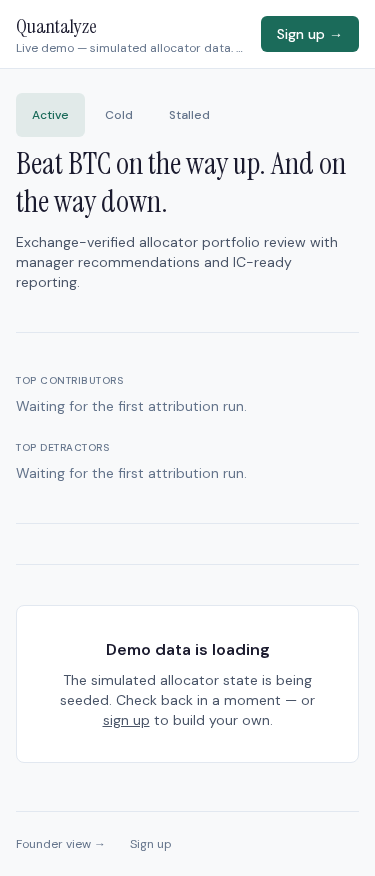
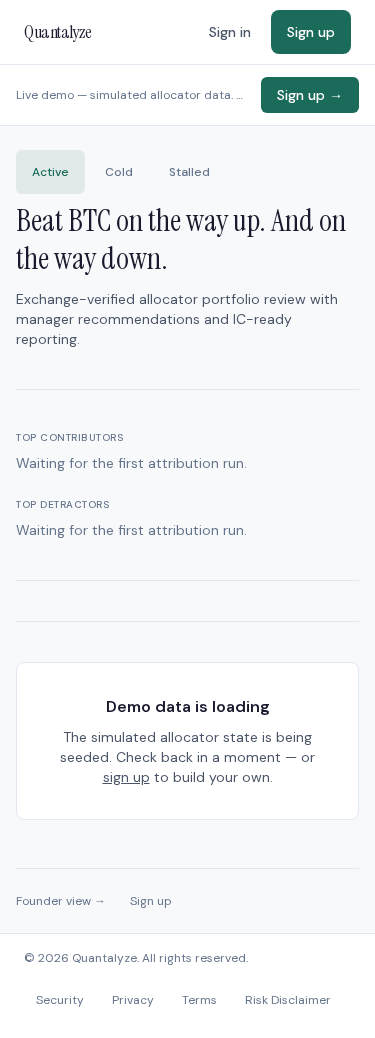
fix(e2e): regenerate /demo screenshot baselines after the (marketing) shell move (v0.35.0.9) (#550)
The advisory demo-screenshot e2e went red on main after v0.35.0.8: /demo moved
under the (marketing) group and gained the shared masthead + LegalFooter, so the
page is taller (mobile 876→1038, desktop 800→912) and the May-21 chromium-linux
baselines no longer matched. Intended visual change, stale baselines — not a bug.

Regenerated demo-375 + demo-1280 in mcr.microsoft.com/playwright:v1.61.1-jammy
(placeholder-Supabase env, matching CI's capture env); demo-768 was within the
0.05 tolerance and is unchanged. Verified the committed baselines pass a clean
no---update comparison in the same linux image. Closes #549.

Claude-Session: https://claude.ai/code/session_01GT7U2ivArKxJiBdcnMZDgj

diff --git a/CHANGELOG.md b/CHANGELOG.md
@@ -1,5 +1,10 @@
 # Changelog
 
+## [0.35.0.9] - 2026-06-29
+### Fixed — /demo screenshot baselines after the Phase 51 shell move (closes #549)
+
+The advisory `e2e` `demo-screenshot.spec.ts` was red on main after v0.35.0.8: moving `/demo` under the `(marketing)` group gave it the shared masthead + `LegalFooter`, so the page is taller (mobile 876→1038px, desktop 800→912px) and the May-21 chromium-linux baselines no longer matched. Not a regression — an intended visual change with stale baselines. Regenerated the `demo-375` + `demo-1280` baselines in the `mcr.microsoft.com/playwright:v1.61.1-jammy` image (placeholder-Supabase env, matching how CI captures them; `demo-768` was already within the 0.05 tolerance and is unchanged) and verified the committed baselines pass a clean no-`--update` comparison. Code untouched — this is the baseline regen the v0.35.0.8 ship flagged but couldn't do locally without docker.
+
 ## [0.35.0.8] - 2026-06-29
 ### Added — the navigation shell + route-contract spine (v1.4 phase 51)
 